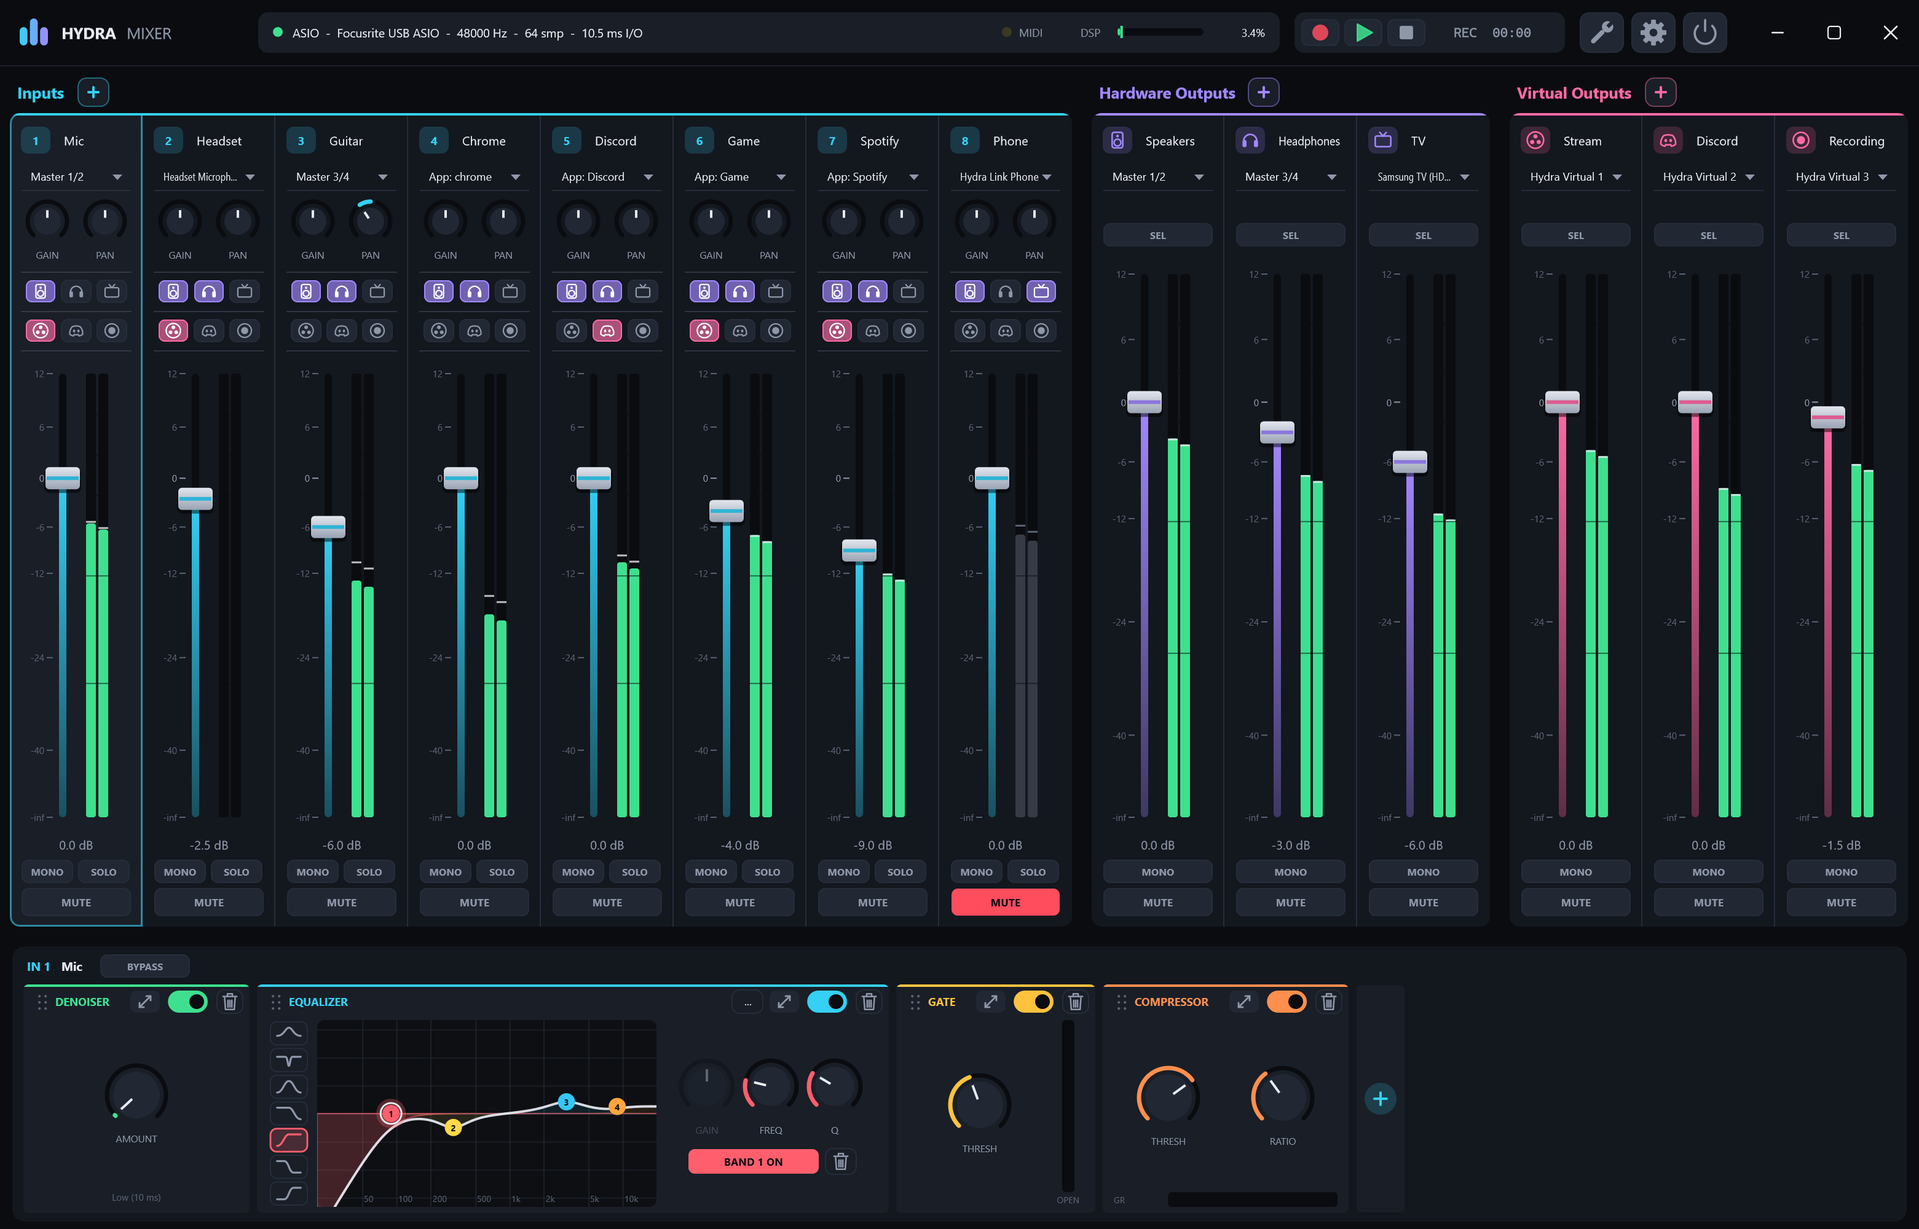
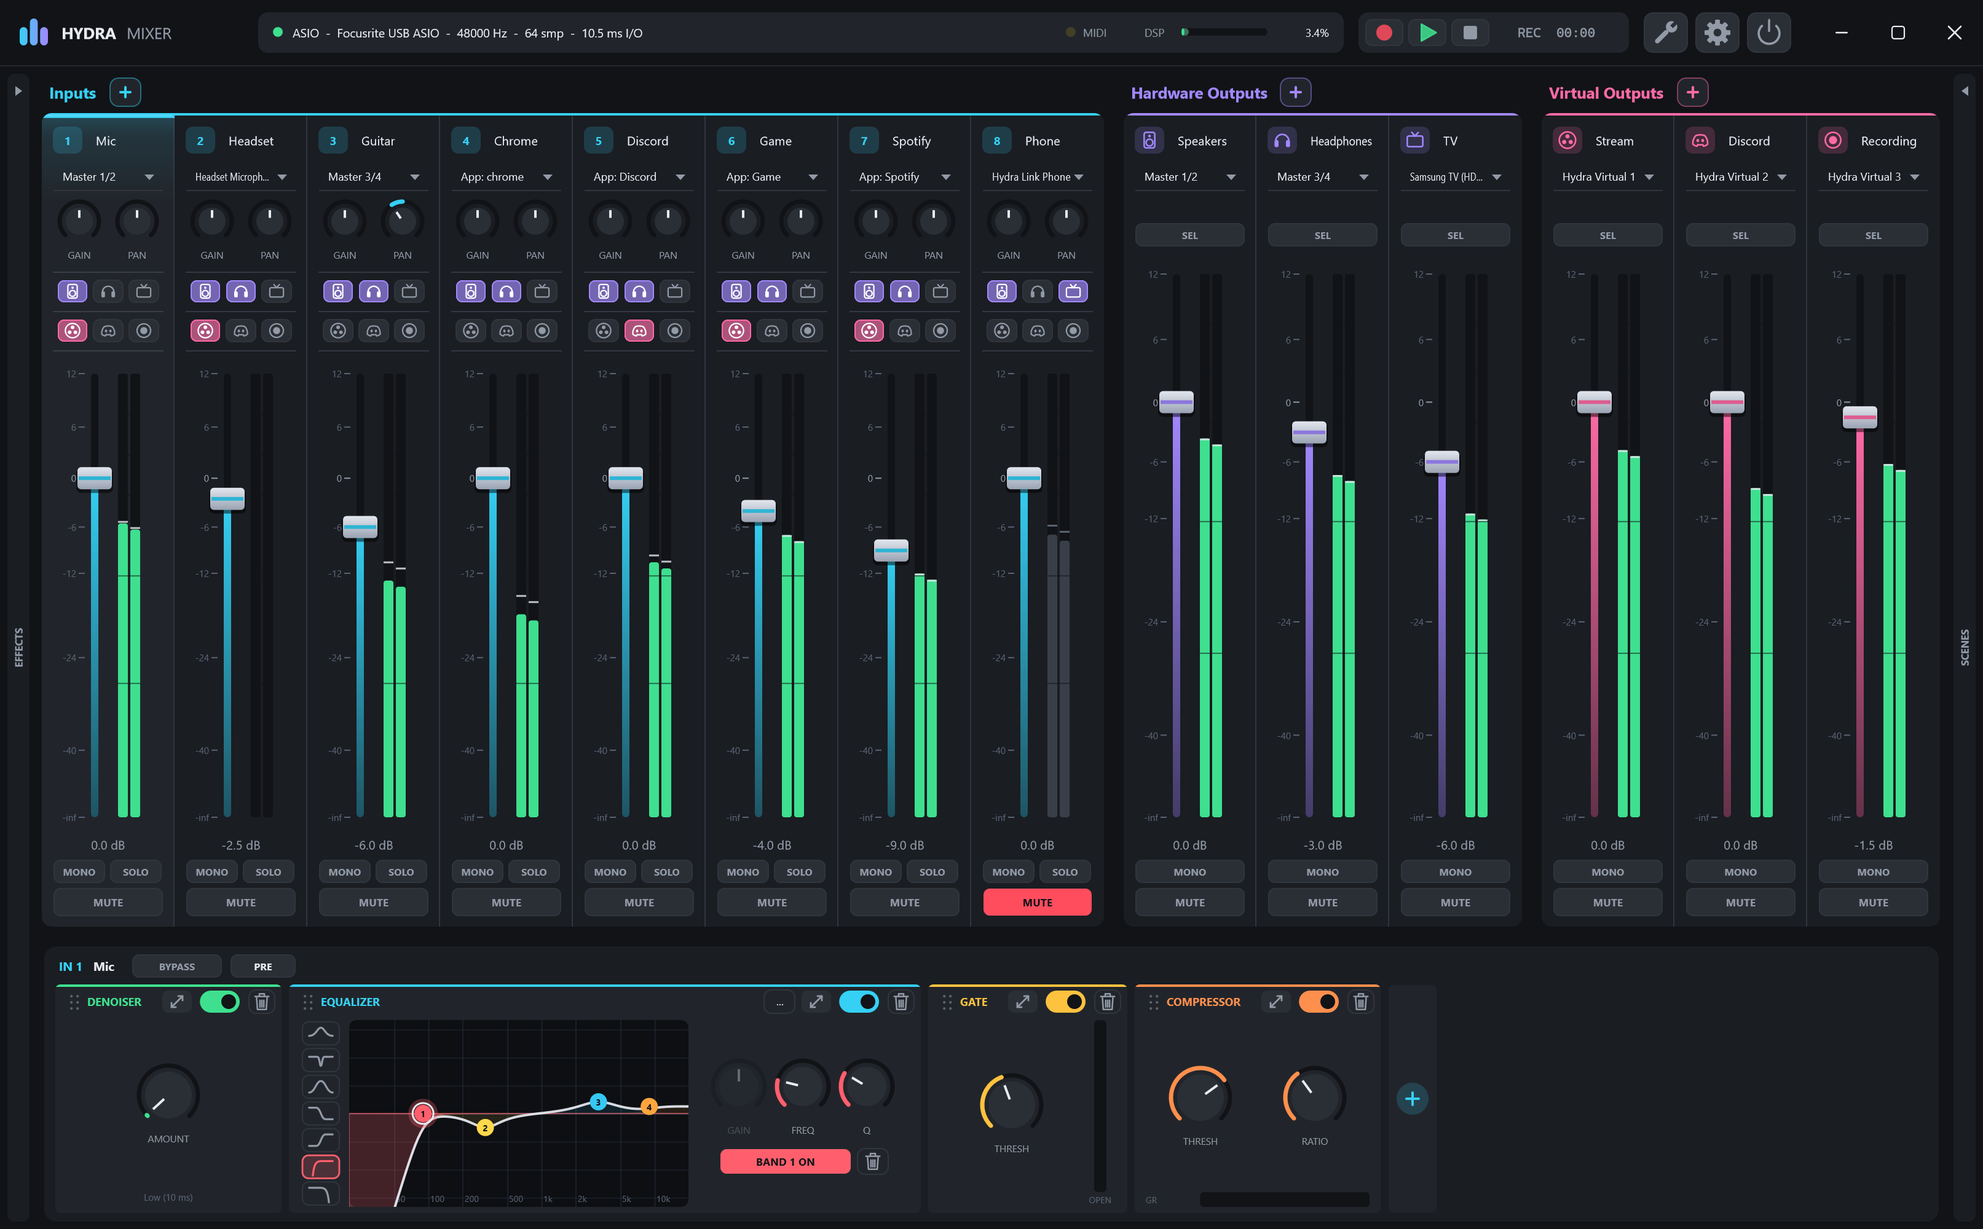
Release 0.8.4: download links, version, new UI screenshot (crops moved to the new layout)

diff --git a/index.html b/index.html
@@ -349,7 +349,7 @@ body[data-view="docs"] #home, body[data-view="home"] #docs { display: none; }
 .wiki .pn a small { display: block; color: var(--muted); font-size: 12px; }
 .wiki .pn a.nx { margin-left: auto; text-align: right; }
 .wiki .pn a:hover { border-color: var(--accent); text-decoration: none; }
-/* Screenshot crops with numbered pins (data-r = x,y,w,h in a 2405 x 1540 frame of screenshot.png) */
+/* Screenshot crops with numbered pins (data-r = x,y,w,h in a 2485 x 1540 frame of screenshot.png) */
 .wiki .crop { position: relative; overflow: hidden; border-radius: 10px; border: 1px solid var(--line); margin: 14px 0 10px; background: #0a0c10; }
 .wiki .crop img { position: absolute; max-width: none; display: block; }
 .wiki .crop .pin { position: absolute; transform: translate(-50%, -50%); width: 22px; height: 22px; border-radius: 50%; background: var(--accent); color: #061015;
@@ -643,7 +643,7 @@ body[data-view="docs"] #home, body[data-view="home"] #docs { display: none; }
         <span class="de">Hydra Mixer ist ein kostenloser Open-Source-Audiomixer für Windows, gebaut für die geringstmögliche Latenz. Mische Mikrofone, Instrumente, Spiele, Apps und virtuelle Kabel, schick sie durch eingebaute Effekte und VST3-Plugins und jeden Mix genau dorthin, wo er hin soll. Für Streamer, Gamer, Podcaster oder Musiker. Eine Alternative zu Voicemeeter.</span>
       </p>
       <div class="cta">
-        <a class="btn primary" data-dl="win" href="https://github.com/TicT4x/Hydra-Mixer/releases/download/v0.8.3/HydraMixer-0.8.3-win64.exe">
+        <a class="btn primary" data-dl="win" href="https://github.com/TicT4x/Hydra-Mixer/releases/download/v0.8.4/HydraMixer-0.8.4-win64.exe">
           <svg width="18" height="18" viewBox="0 0 24 24" fill="currentColor"><path d="M3 5.5 10.5 4.4v7.1H3zM11.5 4.3 21 3v8.5h-9.5zM3 12.5h7.5v7.1L3 18.5zM11.5 12.5H21V21l-9.5-1.3z"/></svg>
           <span class="en">Download for Windows</span><span class="de">Für Windows laden</span>
         </a>
@@ -658,7 +658,7 @@ body[data-view="docs"] #home, body[data-view="home"] #docs { display: none; }
       </div>
     </div>
     <div class="shot-frame rv">
-      <img src="screenshot.png" width="3122" height="2000" alt="Hydra Mixer main window: input strips on the left, hardware and virtual outputs on the right, the effect chain of the selected channel at the bottom">
+      <img src="screenshot.png" width="3226" height="2000" alt="Hydra Mixer main window: input strips on the left, hardware and virtual outputs on the right, the effect chain of the selected channel at the bottom">
     </div>
     <div class="stats rv">
       <div class="stat" style="--c:#35d0f4">
@@ -978,7 +978,7 @@ body[data-view="docs"] #home, body[data-view="home"] #docs { display: none; }
         <li><b><span class="en">Runs in the background.</span><span class="de">Läuft im Hintergrund.</span></b> <span class="en">Low-latency audio, keeps playing with the screen off.</span><span class="de">Audio mit geringer Latenz, spielt bei ausgeschaltetem Display weiter.</span></li>
       </ul>
       <div class="cta" style="justify-content:flex-start">
-        <a class="btn primary" data-dl="apk" href="https://github.com/TicT4x/Hydra-Mixer/releases/download/v0.8.3/HydraLink-0.8.3.apk">
+        <a class="btn primary" data-dl="apk" href="https://github.com/TicT4x/Hydra-Mixer/releases/download/v0.8.4/HydraLink-0.8.4.apk">
           <svg width="18" height="18" viewBox="0 0 24 24" fill="none" stroke="currentColor" stroke-width="2"><rect x="6" y="2.5" width="12" height="19" rx="2.5"/><path d="M10.5 18.5h3"/></svg>
           <span class="en">Get the Android app</span><span class="de">Android-App laden</span>
         </a>
@@ -1012,7 +1012,7 @@ body[data-view="docs"] #home, body[data-view="home"] #docs { display: none; }
           <li><span class="en">ASIO interface recommended, any Windows device works</span><span class="de">ASIO-Interface empfohlen, jedes Windows-Gerät geht</span></li>
         </ul>
         <div class="acts">
-          <a class="btn primary" data-dl="win" href="https://github.com/TicT4x/Hydra-Mixer/releases/download/v0.8.3/HydraMixer-0.8.3-win64.exe">
+          <a class="btn primary" data-dl="win" href="https://github.com/TicT4x/Hydra-Mixer/releases/download/v0.8.4/HydraMixer-0.8.4-win64.exe">
             <svg width="18" height="18" viewBox="0 0 24 24" fill="none" stroke="currentColor" stroke-width="2.2"><path d="M12 4v11m0 0-4.5-4.5M12 15l4.5-4.5M5 20h14"/></svg>
             <span class="en">Download</span><span class="de">Herunterladen</span>
           </a>
@@ -1030,7 +1030,7 @@ body[data-view="docs"] #home, body[data-view="home"] #docs { display: none; }
           <li><span class="en">The remote control needs no app at all: Settings → Remote</span><span class="de">Die Fernsteuerung braucht gar keine App: Settings → Remote</span></li>
         </ul>
         <div class="acts">
-          <a class="btn primary" data-dl="apk" href="https://github.com/TicT4x/Hydra-Mixer/releases/download/v0.8.3/HydraLink-0.8.3.apk">
+          <a class="btn primary" data-dl="apk" href="https://github.com/TicT4x/Hydra-Mixer/releases/download/v0.8.4/HydraLink-0.8.4.apk">
             <svg width="18" height="18" viewBox="0 0 24 24" fill="none" stroke="currentColor" stroke-width="2.2"><path d="M12 4v11m0 0-4.5-4.5M12 15l4.5-4.5M5 20h14"/></svg>
             <span class="en">Download APK</span><span class="de">APK herunterladen</span>
           </a>
@@ -1254,7 +1254,7 @@ body[data-view="docs"] #home, body[data-view="home"] #docs { display: none; }
       <h1>Hydra Mixer Wiki</h1>
       <p class="lead">Hydra Mixer is a free virtual audio mixer for Windows, an alternative to Voicemeeter, for streamers, gamers, podcasters and musicians. The wiki walks you through the setup step by step and explains every feature with pictures of what you actually see. Pick a chapter on the left, use the search (<kbd>/</kbd>) or go chapter by chapter with the buttons at the end.</p>
       <div class="badges">
-        <span class="badge"><b>Version</b> 0.8.3</span>
+        <span class="badge"><b>Version</b> 0.8.4</span>
         <span class="badge"><b>System</b> Windows 10 / 11, 64-bit, AVX2</span>
         <span class="badge"><b>Drivers</b> ASIO · WASAPI</span>
         <span class="badge"><b>Plugins</b> VST3</span>
@@ -1282,7 +1282,7 @@ body[data-view="docs"] #home, body[data-view="home"] #docs { display: none; }
 <section id="install">
   <h2><span class="num">1</span>Installation</h2>
   <ol class="steps">
-    <li>Download <code>HydraMixer-0.8.3-win64.exe</code> from the <a href="https://github.com/TicT4x/Hydra-Mixer/releases">Releases page</a>. It is a single file; nothing else has to be installed.</li>
+    <li>Download <code>HydraMixer-0.8.4-win64.exe</code> from the <a href="https://github.com/TicT4x/Hydra-Mixer/releases">Releases page</a>. It is a single file; nothing else has to be installed.</li>
     <li>Start it. If Windows shows a SmartScreen warning (the app is not code-signed yet): <i>More info → Run anyway</i>.</li>
     <li>The download is its own installer: a small window offers <span class="ui">Install</span>. Hydra copies itself to <code>%LOCALAPPDATA%\Programs\Hydra Mixer</code> (only for your Windows user, no admin rights needed), adds a Start menu entry (optionally a desktop icon) and an entry under <i>Windows Settings → Apps</i>. Tick <span class="ui">Allow network access</span> if you want to use the <a href="#remote">phone remote</a> or <a href="#network">Hydra Link</a>: then Windows asks only once, ever.</li>
     <li>Or click <span class="ui">Run without installing</span> to just try it.</li>
@@ -1444,7 +1444,7 @@ cd Hydra-Mixer
 <section id="ui">
   <h2><span class="num">4</span>Main window overview</h2>
   <p>This is what Hydra looks like with eight inputs, three hardware and three virtual outputs:</p>
-  <div class="crop" data-r="0,0,2405,1540" data-b="6,4,2393,74;10,96,1336,1068;1366,96,502,1068;1888,96,506,1068;14,1184,2380,342" data-alt="Hydra's main window with the five areas marked"></div>
+  <div class="crop" data-r="0,0,2485,1540" data-b="6,4,2473,74;50,96,1336,1068;1406,96,502,1068;1928,96,506,1068;54,1184,2380,342" data-alt="Hydra's main window with the five areas marked"></div>
   <ol class="pins">
     <li><a href="#topbar"><b>Top bar</b></a>: status of the audio engine, DSP load, mini recorder, tools, settings and shut down. It is also the title bar: drag an empty spot to move the window.</li>
     <li><a href="#strips"><b>Inputs</b></a>: one strip per sound source (microphone, app, game, cable …). The <span class="ui">+</span> next to the heading adds one.</li>
@@ -1459,7 +1459,7 @@ cd Hydra-Mixer
 <section id="topbar">
   <h2><span class="num">5</span>Top bar</h2>
   <div class="crop" data-r="0,0,1210,104" data-p="1:120,86;2:420,86" data-alt="Hydra's top bar"></div>
-  <div class="crop" data-r="1200,0,1205,104" data-p="3:1290,86;4:1460,86;5:1790,86;6:2005,86;7:2070,86;8:2135,86;9:2297,86" data-alt=""></div>
+  <div class="crop" data-r="1280,0,1205,104" data-p="3:1370,86;4:1540,86;5:1870,86;6:2085,86;7:2150,86;8:2215,86;9:2377,86" data-alt=""></div>
   <ol class="pins">
     <li><b>Logo</b>. The empty space of the bar moves the window; a double-click maximises it.</li>
     <li><b>Status</b>: driver, master device, sample rate, buffer size and the I/O latency of the master. The dot is green while the engine runs. A click opens <span class="ui">Settings → Audio Engine</span>.</li>
@@ -1480,7 +1480,7 @@ cd Hydra-Mixer
   <div class="crops">
     <div>
       <h3 style="margin-top:8px">Input strip</h3>
-      <div class="crop" data-r="14,146,164,1016" data-gl="60" data-p="1:-16,176,30;2:-16,221,40;3:-16,252,36;4:-16,302,106;5:-16,364,30;6:-16,413,30;7:-16,598,58;8:-16,760,104;9:-16,1050,62;10:-16,1078,30;11:-16,1104,100;12:-16,1134,30" data-alt="Input strip of the microphone"></div>
+      <div class="crop" data-r="54,146,164,1016" data-gl="60" data-p="1:24,176,70;2:24,221,80;3:24,252,76;4:24,302,146;5:24,364,70;6:24,413,70;7:24,598,98;8:24,760,144;9:24,1050,102;10:24,1078,70;11:24,1104,140;12:24,1134,70" data-alt="Input strip of the microphone"></div>
     </div>
     <div>
       <ol class="pins" style="margin-top:46px">
@@ -1504,7 +1504,7 @@ cd Hydra-Mixer
   <div class="crops">
     <div>
       <h3 style="margin-top:8px">Output strip</h3>
-      <div class="crop" data-r="1370,146,164,1016" data-gl="60" data-p="1:1338,176,1384;2:1338,221,1396;3:1338,295,1384;4:1338,504,1416;5:1338,760,1462;6:1338,1058,1414;7:1338,1092,1384;8:1338,1130,1384" data-alt="Output strip of the speakers"></div>
+      <div class="crop" data-r="1410,146,164,1016" data-gl="60" data-p="1:1378,176,1424;2:1378,221,1436;3:1378,295,1424;4:1378,504,1456;5:1378,760,1502;6:1378,1058,1454;7:1378,1092,1424;8:1378,1130,1424" data-alt="Output strip of the speakers"></div>
     </div>
     <div>
       <ol class="pins" style="margin-top:46px">
@@ -1635,7 +1635,7 @@ cd Hydra-Mixer
 <section id="chain">
   <h2><span class="num">10</span>Effect Chain</h2>
   <p>The bottom of the window shows the <b>effect chain</b> of the selected channel: one block per effect, in the order the signal passes through them, from left to right. Click a strip to see its chain. When the chain gets long, it scrolls sideways.</p>
-  <div class="hscroll"><div class="crop" data-r="14,1188,1760,336" data-p="1:48,1211;2:181,1211;3:52,1255;4:181,1255;5:235,1255;6:288,1255;7:936,1255;8:1729,1376" data-alt="Effect chain of the microphone: denoiser, equalizer, gate, compressor"></div></div>
+  <div class="hscroll"><div class="crop" data-r="54,1188,1760,336" data-p="1:88,1211;2:221,1211;3:92,1255;4:221,1255;5:275,1255;6:328,1255;7:976,1255;8:1769,1376" data-alt="Effect chain of the microphone: denoiser, equalizer, gate, compressor"></div></div>
   <ol class="pins">
     <li><b>Channel</b> whose chain you see.</li>
     <li><b>BYPASS</b>: switches off the whole chain at once, to compare with and without.</li>
@@ -2518,7 +2518,7 @@ cd Hydra-Mixer
       <h1>Hydra Mixer Wiki</h1>
       <p class="lead">Hydra Mixer ist ein kostenloser virtueller Audiomixer für Windows, eine Alternative zu Voicemeeter, für Streamer, Gamer, Podcaster und Musiker. Das Wiki führt dich Schritt für Schritt durch die Einrichtung und erklärt jede Funktion mit Bildern davon, was du tatsächlich siehst. Wähle links ein Kapitel, nutze die Suche (<kbd>/</kbd>) oder geh mit den Knöpfen am Ende Kapitel für Kapitel weiter.</p>
       <div class="badges">
-        <span class="badge"><b>Version</b> 0.8.3</span>
+        <span class="badge"><b>Version</b> 0.8.4</span>
         <span class="badge"><b>System</b> Windows 10 / 11, 64 Bit, AVX2</span>
         <span class="badge"><b>Treiber</b> ASIO · WASAPI</span>
         <span class="badge"><b>Plugins</b> VST3</span>
@@ -2546,7 +2546,7 @@ cd Hydra-Mixer
 <section id="install">
   <h2><span class="num">1</span>Installation</h2>
   <ol class="steps">
-    <li>Lade <code>HydraMixer-0.8.3-win64.exe</code> von der <a href="https://github.com/TicT4x/Hydra-Mixer/releases">Releases-Seite</a> herunter. Es ist eine einzige Datei, sonst muss nichts installiert werden.</li>
+    <li>Lade <code>HydraMixer-0.8.4-win64.exe</code> von der <a href="https://github.com/TicT4x/Hydra-Mixer/releases">Releases-Seite</a> herunter. Es ist eine einzige Datei, sonst muss nichts installiert werden.</li>
     <li>Starte sie. Zeigt Windows eine SmartScreen-Warnung (die App ist noch nicht signiert): <i>Weitere Informationen → Trotzdem ausführen</i>.</li>
     <li>Der Download ist sein eigener Installer: Ein kleines Fenster bietet <span class="ui">Install</span> an. Hydra kopiert sich nach <code>%LOCALAPPDATA%\Programs\Hydra Mixer</code> (nur für deinen Windows-Benutzer, ohne Admin-Rechte), legt einen Startmenü-Eintrag an (auf Wunsch ein Desktop-Symbol) und einen Eintrag unter <i>Windows-Einstellungen → Apps</i>. Hake <span class="ui">Allow network access</span> an, wenn du die <a href="#remote">Handy-Fernsteuerung</a> oder <a href="#network">Hydra Link</a> nutzen willst: Dann fragt Windows nur ein einziges Mal.</li>
     <li>Oder klick <span class="ui">Run without installing</span>, um es nur auszuprobieren.</li>
@@ -2708,7 +2708,7 @@ cd Hydra-Mixer
 <section id="ui">
   <h2><span class="num">4</span>Überblick Hauptfenster</h2>
   <p>So sieht Hydra mit acht Inputs, drei Hardware- und drei virtuellen Ausgängen aus:</p>
-  <div class="crop" data-r="0,0,2405,1540" data-b="6,4,2393,74;10,96,1336,1068;1366,96,502,1068;1888,96,506,1068;14,1184,2380,342" data-alt="Hauptfenster von Hydra mit den fünf markierten Bereichen"></div>
+  <div class="crop" data-r="0,0,2485,1540" data-b="6,4,2473,74;50,96,1336,1068;1406,96,502,1068;1928,96,506,1068;54,1184,2380,342" data-alt="Hauptfenster von Hydra mit den fünf markierten Bereichen"></div>
   <ol class="pins">
     <li><a href="#topbar"><b>Top-Bar</b></a>: Status der Audio-Engine, DSP-Last, Mini-Recorder, Werkzeuge, Settings und Beenden. Sie ist zugleich die Titelleiste: An einer freien Stelle ziehen verschiebt das Fenster.</li>
     <li><a href="#strips"><b>Inputs</b></a>: ein Strip pro Klangquelle (Mikrofon, App, Spiel, Kabel …). Das <span class="ui">+</span> neben der Überschrift fügt einen hinzu.</li>
@@ -2723,7 +2723,7 @@ cd Hydra-Mixer
 <section id="topbar">
   <h2><span class="num">5</span>Top-Bar</h2>
   <div class="crop" data-r="0,0,1210,104" data-p="1:120,86;2:420,86" data-alt="Die Top-Bar von Hydra"></div>
-  <div class="crop" data-r="1200,0,1205,104" data-p="3:1290,86;4:1460,86;5:1790,86;6:2005,86;7:2070,86;8:2135,86;9:2297,86" data-alt=""></div>
+  <div class="crop" data-r="1280,0,1205,104" data-p="3:1370,86;4:1540,86;5:1870,86;6:2085,86;7:2150,86;8:2215,86;9:2377,86" data-alt=""></div>
   <ol class="pins">
     <li><b>Logo</b>. Freie Stellen der Leiste verschieben das Fenster, Doppelklick maximiert.</li>
     <li><b>Status</b>: Treiber, Master-Gerät, Sample-Rate, Puffergröße und die I/O-Latenz des Masters. Der Punkt ist grün, solange die Engine läuft. Ein Klick öffnet <span class="ui">Settings → Audio Engine</span>.</li>
@@ -2744,7 +2744,7 @@ cd Hydra-Mixer
   <div class="crops">
     <div>
       <h3 style="margin-top:8px">Input-Strip</h3>
-      <div class="crop" data-r="14,146,164,1016" data-gl="60" data-p="1:-16,176,30;2:-16,221,40;3:-16,252,36;4:-16,302,106;5:-16,364,30;6:-16,413,30;7:-16,598,58;8:-16,760,104;9:-16,1050,62;10:-16,1078,30;11:-16,1104,100;12:-16,1134,30" data-alt="Input-Strip des Mikrofons"></div>
+      <div class="crop" data-r="54,146,164,1016" data-gl="60" data-p="1:24,176,70;2:24,221,80;3:24,252,76;4:24,302,146;5:24,364,70;6:24,413,70;7:24,598,98;8:24,760,144;9:24,1050,102;10:24,1078,70;11:24,1104,140;12:24,1134,70" data-alt="Input-Strip des Mikrofons"></div>
     </div>
     <div>
       <ol class="pins" style="margin-top:46px">
@@ -2767,7 +2767,7 @@ cd Hydra-Mixer
   <div class="crops">
     <div>
       <h3 style="margin-top:8px">Output-Strip</h3>
-      <div class="crop" data-r="1370,146,164,1016" data-gl="60" data-p="1:1338,176,1384;2:1338,221,1396;3:1338,295,1384;4:1338,504,1416;5:1338,760,1462;6:1338,1058,1414;7:1338,1092,1384;8:1338,1130,1384" data-alt="Output-Strip der Lautsprecher"></div>
+      <div class="crop" data-r="1410,146,164,1016" data-gl="60" data-p="1:1378,176,1424;2:1378,221,1436;3:1378,295,1424;4:1378,504,1456;5:1378,760,1502;6:1378,1058,1454;7:1378,1092,1424;8:1378,1130,1424" data-alt="Output-Strip der Lautsprecher"></div>
     </div>
     <div>
       <ol class="pins" style="margin-top:46px">
@@ -2896,7 +2896,7 @@ cd Hydra-Mixer
 <section id="chain">
   <h2><span class="num">10</span>Effektkette</h2>
   <p>Unten im Fenster steht die <b>Effektkette</b> des ausgewählten Kanals: ein Block pro Effekt, in der Reihenfolge, in der das Signal sie durchläuft, von links nach rechts. Klick auf einen Strip zeigt seine Kette. Wird sie lang, scrollt sie seitwärts.</p>
-  <div class="hscroll"><div class="crop" data-r="14,1188,1760,336" data-p="1:48,1211;2:181,1211;3:52,1255;4:181,1255;5:235,1255;6:288,1255;7:936,1255;8:1729,1376" data-alt="Effektkette des Mikrofons: Denoiser, Equalizer, Gate, Kompressor"></div></div>
+  <div class="hscroll"><div class="crop" data-r="54,1188,1760,336" data-p="1:88,1211;2:221,1211;3:92,1255;4:221,1255;5:275,1255;6:328,1255;7:976,1255;8:1769,1376" data-alt="Effektkette des Mikrofons: Denoiser, Equalizer, Gate, Kompressor"></div></div>
   <ol class="pins">
     <li><b>Kanal</b>, dessen Kette du siehst.</li>
     <li><b>BYPASS</b>: schaltet die ganze Kette auf einmal ab, zum Vergleichen mit und ohne.</li>
@@ -3800,7 +3800,7 @@ cd Hydra-Mixer
   /* ---------- Wiki rendering, nav, scroll spy, search ---------- */
   let links = [], sections = [], plain = new Map(), cur = null;
   const ALIAS = { inspector: 'chain' };   // old anchors keep working
-  // Screenshot crops: data-r="x,y,w,h" in a 2405 x 1540 frame, data-p="n:x,y;..." pins, data-b="x,y,w,h;..." boxes (pin n = index + 1).
+  // Screenshot crops: data-r="x,y,w,h" in a 2485 x 1540 frame, data-p="n:x,y;..." pins, data-b="x,y,w,h;..." boxes (pin n = index + 1).
   function renderCrops(rootEl) {
     rootEl.querySelectorAll('.crop[data-r]').forEach(c => {
       const [x, y, w, h] = c.dataset.r.split(',').map(Number), gl = +(c.dataset.gl || 0), W = w + gl;
@@ -3810,7 +3810,7 @@ cd Hydra-Mixer
       inner.style.left = pct(gl, W); inner.style.width = pct(w, W);
       const img = document.createElement('img');
       img.src = c.dataset.src || 'screenshot.png'; img.alt = c.dataset.alt || ''; img.loading = 'lazy';
-      img.style.width = (2405 / w * 100) + '%'; img.style.left = (-x / w * 100) + '%'; img.style.top = (-y / h * 100) + '%';
+      img.style.width = (2485 / w * 100) + '%'; img.style.left = (-x / w * 100) + '%'; img.style.top = (-y / h * 100) + '%';
       inner.append(img); c.append(inner);
       const X = v => pct(v - x + gl, W);
       (c.dataset.b || '').split(';').filter(Boolean).forEach((s, i) => {
